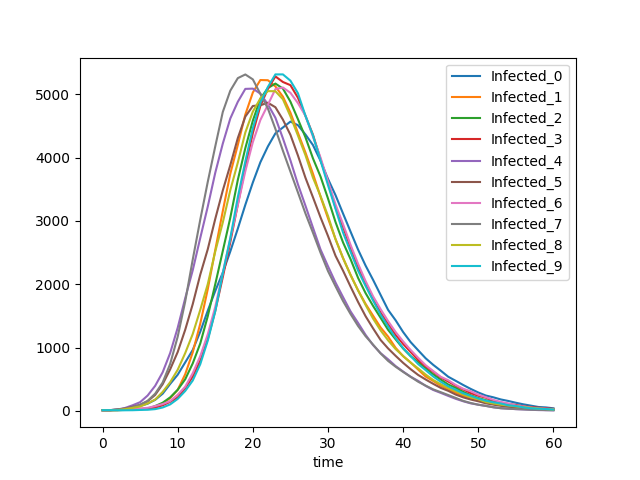
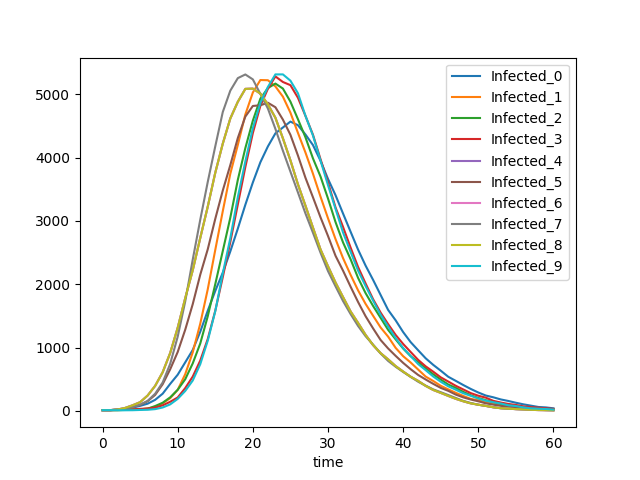
class plotter

Changed region(s): [[0.1875, 0.1562, 0.875, 0.875]]

diff --git a/python_examples/toy_interventions/toy_plotter.py b/python_examples/toy_interventions/toy_plotter.py
@@ -1,0 +1,176 @@
+#
+# Reads a csv of toy population and plots infection curves
+#
+
+import pandas as pd
+import matplotlib.pyplot as plt
+import matplotlib.colors as mcolors
+import os
+
+
+class Plotter():
+    """Class to take a csv file and return various plots.
+    """
+    def __init__(self, foldername: str, grid_sizes: list, avplaces: int, repeats: int, parameter: int, parameter_values: list):
+        self.folder = foldername
+        self.grid_sizes = grid_sizes
+        self.avplaces = avplaces
+        self.repeats = repeats
+        self.parameter = parameter
+        self.parameter_values = parameter_values
+
+    def _summarise_outputs(self):
+        for grid_size in self.grid_sizes:
+            if self.parameter is not None:
+                for parameter_value in self.parameter_values:
+                    file_names = ["output_{}x{}_av{}_{}{}_{}.csv".format(
+                        grid_size, grid_size, self.avplaces, self.parameter,
+                        parameter_value, i)
+                        for i in range(self.repeats)]
+                    combined_output_name = 'combined_{}x{}_av{}_{}_{}.csv'.\
+                        format(grid_size, grid_size, self.avplaces,
+                               self.parameter, parameter_value)
+                    summary_output_name = 'summary_{}x{}_av{}_{}_{}.csv'.\
+                        format(grid_size, grid_size, self.avplaces,
+                               self.parameter, parameter_value)
+
+                    self._make_and_save_outputs(
+                        file_names, combined_output_name, summary_output_name)
+            else:
+                file_names = ["output_{}x{}_av{}_{}.csv".format(
+                        grid_size, grid_size, self.avplaces, i)
+                        for i in range(self.repeats)]
+                combined_output_name = 'combined_{}x{}_av{}.csv'.format(
+                        grid_size, grid_size, self.avplaces)
+                summary_output_name = 'summary_{}x{}_av{}.csv'.format(
+                        grid_size, grid_size, self.avplaces)
+
+                self._make_and_save_outputs(
+                    file_names, combined_output_name, summary_output_name)
+
+    def _make_and_save_outputs(self, filenames, combined_name, summary_name):
+        combined_df = self._combine_dataframes(filenames)
+        summary_df = self._summarise_dataframes(combined_df)
+
+        time_list = []
+        for i in range(summary_df.shape[0]):
+            time_list.append(i)
+
+        combined_df["time"] = time_list
+        summary_df["time"] = time_list
+
+        # Write to output files
+        combined_df.to_csv(os.path.join(os.path.dirname(__file__),
+                           self.folder, combined_name), index=False)
+        summary_df.to_csv(os.path.join(os.path.dirname(__file__),
+                          self.folder, summary_name), index=False)
+
+    def _combine_dataframes(self, filenames: list):
+        combined_df = pd.DataFrame()
+        for i in range(len(filenames)):
+            file = filenames[i]
+            filename = os.path.join(os.path.dirname(__file__), self.folder,
+                                    file)
+
+            SIRdf = pd.read_csv(filename)
+            total = SIRdf[list(SIRdf.filter(regex='InfectionStatus.Infect'))]
+            SIRdf["Infected"] = total.sum(axis=1)
+            SIRdf = SIRdf.groupby(
+                ["time"]).agg({"InfectionStatus.Susceptible": 'sum',
+                               "Infected": 'sum',
+                               "InfectionStatus.Recovered": 'sum',
+                               "InfectionStatus.Dead": 'sum'})
+            SIRdf.rename(columns={"InfectionStatus.Susceptible":
+                                  "Susceptible_{}".format(i),
+                                  "InfectionStatus.Recovered":
+                                  "Recovered_{}".format(i),
+                                  "Infected":
+                                  "Infected_{}".format(i)},
+                         inplace=True)
+            combined_df["Susceptible_{}".format(i)] = \
+                SIRdf["Susceptible_{}".format(i)]
+            combined_df["Recovered_{}".format(i)] = \
+                SIRdf["Recovered_{}".format(i)]
+            combined_df["Infected_{}".format(i)] = \
+                SIRdf["Infected_{}".format(i)]
+
+        return combined_df
+
+    def _summarise_dataframes(self, combined_df):
+        summary_df = pd.DataFrame()
+        all_infections = combined_df[
+            list(combined_df.filter(regex='Infected'))]
+        all_susceptible = combined_df[
+            list((combined_df.filter(regex='Susceptible')))]
+        all_recovered = combined_df[
+            list((combined_df.filter(regex='Recovered')))]
+
+        summary_df["av_infections"] = all_infections.mean(axis=1)
+        summary_df["sd_infections"] = all_infections.std(axis=1)
+        summary_df["av_susceptible"] = all_susceptible.mean(axis=1)
+        summary_df["sd_susceptible"] = all_susceptible.std(axis=1)
+        summary_df["av_recovered"] = all_recovered.mean(axis=1)
+        summary_df["sd_recovered"] = all_recovered.std(axis=1)
+
+        return summary_df
+
+    def _plot_SIR(self, combined_df_name):
+        name = combined_df_name.replace('combined', '')
+        name = name.replace('.csv', '')
+        plot_name = 'plot_infections_{}.png'.format(name)
+
+        combined_df = pd.read_csv(os.path.join(os.path.dirname(__file__),
+                                  self.folder, combined_df_name))
+
+        # Create plot to show SIR curves against time
+        y_list = []
+        for i in range(10):
+            y_list.append("Infected_{}".format(i))
+
+        combined_df.plot(y=y_list)
+        plt.savefig(os.path.join(os.path.dirname(__file__), self.folder,
+                    plot_name))
+
+    def _multiple_curve_plotter(self, name_fig=None):
+        color_list = list(mcolors.BASE_COLORS.keys())
+        count = 0
+        for grid_size in self.grid_sizes:
+            if self.parameter is not None:
+                for parameter_value in self.parameter_values:
+                    summary_output_name = 'summary_{}x{}_av{}_{}_{}.csv'.\
+                        format(grid_size, grid_size, self.avplaces,
+                               self.parameter, parameter_value)
+                    label = '{}x{}, {}:{}'.format(
+                        grid_size, grid_size, self.parameter, parameter_value)
+                
+                    plot = self._make_multiple_curve_plot(
+                        summary_output_name, color_list[count], label)
+                    count += 1
+            else:
+                summary_output_name = 'summary_{}x{}_av{}.csv'.format(
+                        grid_size, grid_size, self.avplaces)
+                label = '{}x{}'.format(grid_size, grid_size)
+
+                plot = self._make_multiple_curve_plot(
+                    summary_output_name, color_list[count], label)
+                count += 1
+
+        if name_fig is None:
+            name_fig = 'plot_summary'
+
+        plot.legend()
+        plot.savefig(os.path.join(os.path.dirname(__file__), self.folder,
+                     '{}.png'.format(name_fig)))
+
+    def _make_multiple_curve_plot(self, summary_output_name, color, label):
+        summary_df = pd.read_csv(os.path.join(os.path.dirname(__file__),
+                                 self.folder, summary_output_name))
+
+        plt.plot(summary_df['time'], summary_df['av_infections'],
+                 '{}-'.format(color), label=label)
+        plt.fill_between(
+            summary_df['time'],
+            summary_df['av_infections'] - summary_df['sd_infections'],
+            summary_df['av_infections'] + summary_df['sd_infections'],
+            color=color, alpha=0.2)
+        return plt

diff --git a/python_examples/toy_interventions/example_flow.py b/python_examples/toy_interventions/example_flow.py
@@ -19,7 +19,7 @@ pe.Parameters.set_file(os.path.join(os.path.dirname(__file__),
 
 input_file_names = ["toy_input_15x15_av5_places.csv",
                     "toy_input_4x4_av5_places.csv"]
-output_file_names = ["output_15x15_av5_{}{}_{}.csv", "output_4x4_av5_{}{}_{}.csv"]
+output_file_names = ["output_15x15_av5_{}_{}_{}.csv", "output_4x4_av5_{}_{}_{}.csv"]
 
 # Parameters to change
 intervention = 'case_isolation'

diff --git a/python_examples/toy_interventions/run_plot.py b/python_examples/toy_interventions/run_plot.py
@@ -1,0 +1,8 @@
+import pyEpiabm as pe
+
+from toy_plotter import Plotter 
+
+# Creation of a plot of results with age stratification
+p = Plotter('simulation_outputs', [4, 15], 5, 10, 'isolation_probability', [0.0, 1.0])
+p._summarise_outputs()
+p._multiple_curve_plotter('test3')
